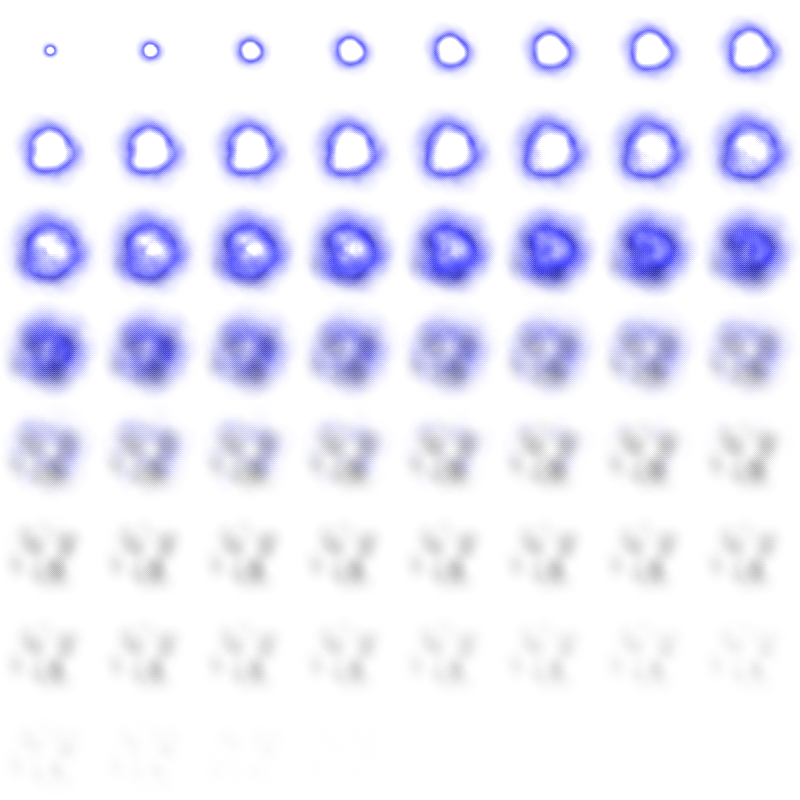
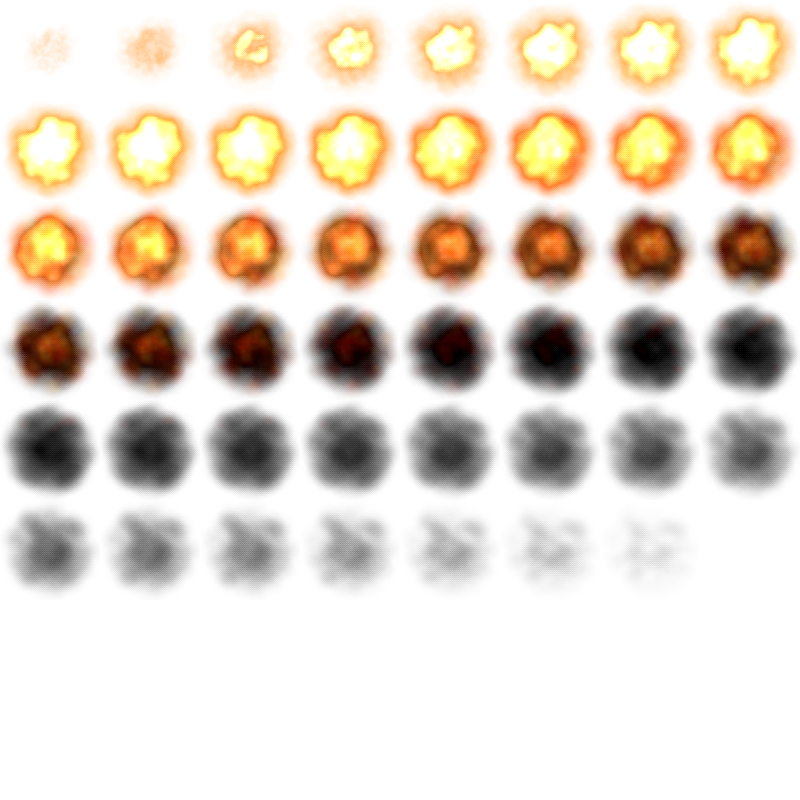
update

diff --git a/src/Effect.js b/src/Effect.js
@@ -9,7 +9,7 @@ gls2.Effect.setup = function() {
 
     gls2.effectSprite = {};
 
-    gls2.Effect["explosion"] = Array.range(0, 2).map(function(i) {
+    gls2.Effect["explosion"] = Array.range(0, 3).map(function(i) {
         return tm.display.AnimationSprite(tm.asset.SpriteSheet({
             image: "explode" + i,
             frame: {
@@ -26,7 +26,7 @@ gls2.Effect.setup = function() {
     });
 
     gls2.effectSprite["explodeL"] = tm.display.AnimationSprite(tm.asset.SpriteSheet({
-        image: "explodeL",
+        image: "explode0",
         frame: {
             width: 100,
             height: 100,
@@ -82,7 +82,9 @@ gls2.Effect.setup = function() {
 };
 
 gls2.Effect.genParticle = function(x, y, scene) {
-    var p = gls2.Effect["particle16"].clone().setPosition(x, y).addChildTo(scene);
+    var p = gls2.Effect["particle16"].clone().setPosition(x, y);
+    p.isEffect = true;
+    p.addChildTo(scene);
     var speed = gls2.math.randf(5, 20);
     var dir = gls2.math.randf(Math.PI,Math.PI*2);
     p.dx = Math.cos(dir) * speed;
@@ -98,19 +100,21 @@ gls2.Effect.genParticle = function(x, y, scene) {
     });
 };
 
-gls2.Effect.genShockwave = function(x, y, scene) {
+gls2.Effect.genShockwave = function(x, y, scene, scaleTo) {
+    scaleTo = scaleTo || 1.8;
     var scale = 0.1;
     var sw = tm.display.Sprite()
         .setPosition(x, y)
         .setScale(scale)
-        .setBlendMode("lighter")
-        .addChildTo(scene);
+        .setBlendMode("lighter");
+    sw.isEffect = true;
+    sw.addChildTo(scene);
     sw.image = gls2.Effect["shockwaveImage"];
     sw.tweener
         .clear()
         .to({
-            scaleX: 1.4,
-            scaleY: 1.4,
+            scaleX: scaleTo,
+            scaleY: scaleTo,
             alpha: 0.0
         }, 800, "easeOutQuad")
         .call(function() {
@@ -166,6 +170,7 @@ gls2.Effect.explodeS = function(x, y, scene, vector) {
         });
     }
     e.addChildTo(scene);
+    gls2.Effect.genShockwave(x, y, scene);
 };
 
 gls2.Effect.explodeGS = function(x, y, scene) {
@@ -201,7 +206,6 @@ gls2.Effect.explodeGS = function(x, y, scene) {
         .setScale(0.5)
         .setPosition(x+12, y)
         .setRotation(Math.random() * 360)
-        .setBlendMode("lighter")
         .gotoAndPlay();
     e.isEffect = true;
     e.addChildTo(scene);
@@ -221,7 +225,6 @@ gls2.Effect.explodeGS = function(x, y, scene) {
         .setScale(0.5)
         .setPosition(x-12, y)
         .setRotation(Math.random() * 360)
-        .setBlendMode("lighter")
         .gotoAndPlay();
     e.isEffect = true;
     e.addChildTo(scene);
@@ -245,7 +248,6 @@ gls2.Effect.explodeM = function(x, y, scene) {
                 this.scaleY += 0.01;
             })
             .setScale(0.7)
-            .setBlendMode(i%2===0?"lighter":"source-over")
             .setPosition(x, y)
             .gotoAndPlay();
         e.a = Math.PI*2 * Math.random();
@@ -254,6 +256,7 @@ gls2.Effect.explodeM = function(x, y, scene) {
         e.isEffect = true;
         e.addChildTo(scene);
     }
+    gls2.Effect.genShockwave(x, y, scene, 5.0);
 };
 
 gls2.Effect.explodeL = function(x, y, scene) {
@@ -281,7 +284,6 @@ gls2.Effect.explodeL = function(x, y, scene) {
                     this.age += 1;
                 })
                 .setScale(0.3 * (3-j))
-                .setBlendMode("lighter")
                 .setPosition(x, y)
                 .gotoAndPlay();
             e.rotation = Math.random() * Math.PI*2;

diff --git a/src/enemy/EnemyHard.js b/src/enemy/EnemyHard.js
@@ -206,7 +206,7 @@ gls2.Enemy.FighterM = tm.createClass(
     init: function(gameScene, software) {
         this.superInit(gameScene, software, "kurokawa");
 
-        this._sprite = _Sprite("tex_stage1", 64*2, 64*2).setFrameIndex(1);
+        this._sprite = _Sprite("tex_stage1", 64*2, 64*2).setFrameIndex(1); // TODO 専用グラ
     },
     ondying: function() {
         this.on("enterframe", function(e) {
@@ -261,6 +261,34 @@ gls2.Enemy.Komachi = tm.createClass(
 /**
  * 大型戦闘機「アオノ」
  */
+gls2.Enemy.Mktn = tm.createClass(
+/** @lends */
+{
+    superClass: gls2.Enemy,
+
+    _sprite: null,
+
+    init: function(gameScene, software) {
+        this.superInit(gameScene, software, "aono");
+
+        this._sprite = _Sprite("tex_stage1", 64*4, 64*2).setFrameIndex(1);
+    },
+    ondying: function() {
+        this.on("enterframe", function(e) {
+            if (e.app.frame % 30 === 0) {
+                this._sprite.toRed();
+            } else if (e.app.frame % 30 === 5) {
+                this._sprite.toNormal();
+            }
+        });
+    },
+    draw: function(canvas) {
+        this._sprite.draw(canvas);
+    },
+    destroy: function() {
+        this.fallDown();
+    },
+});
 
 /**
  * 固定砲台「キセ」

diff --git a/src/enemy/Danmaku.js b/src/enemy/Danmaku.js
@@ -391,6 +391,31 @@ gls2.Danmaku["kurokawa-1"] = new bulletml.Root({
 });
 
 /**
+ * エレン4面
+ */
+gls2.Danmaku["kurokawa-4"] = new bulletml.Root({
+    "top0": $.action([
+        $.repeat(999, [
+            $whip($spd3, -0.01, 4, function(spd) {
+                return $nway(4, -45, 45, spd, BNL, $.offsetX(-45), $.autonomy(true));
+            }),
+            $whip($spd3, -0.01, 4, function(spd) {
+                return $nway(4, -45, 45, spd, BNL, $.offsetX(+45), $.autonomy(true));
+            }),
+            $interval(90),
+        ]),
+    ]),
+    "top1": $.action([
+        $.repeat(999, [
+            $.fire($.direction(0), $spd3, RL, $.offsetX(-45), $.autonomy(true)),
+            $interval(45),
+            $.fire($.direction(0), $spd3, RL, $.offsetX(+45), $.autonomy(true)),
+            $interval(45),
+        ]),
+    ]),
+});
+
+/**
  * こまち1面
  */
 gls2.Danmaku["komachi-1"] = new bulletml.Root({

diff --git a/src/enemy/EnemyUnit.js b/src/enemy/EnemyUnit.js
@@ -284,6 +284,9 @@ gls2.EnemyUnit = {
 "fighter-m-5": [{ hard:$e.FighterM, soft:$s.MiddleFighter1, x:SC_W*0.7, y:SC_H*-0.3 }],
 "fighter-m-6": [{ hard:$e.FighterM, soft:$s.MiddleFighter1, x:SC_W*0.8, y:SC_H*-0.3 }],
 
+// 中型戦闘機「クロカワ」4面用
+"fighter-m4-0": [{ hard:$e.FighterM, soft:$s.MiddleFighter4, x:SC_W*0.2, y:SC_H*-0.3 }],
+
 // 小型戦闘機「ツキカゲ」4面用右から
 "tsukikage-r": [
     { hard:$e.FighterS, soft:$s.Tsukikage4r(700), x:SC_W*1.3, y:SC_H*0.4 },
@@ -317,6 +320,7 @@ gls2.EnemyUnit = {
 // 中型戦闘機「アキモト」4面用
 "komachi4-0": [{ hard:$e.Komachi, soft:$s.LargeFighter4, x:SC_W*0.3, y:SC_H*-0.3 }],
 "komachi4-1": [{ hard:$e.Komachi, soft:$s.LargeFighter4, x:SC_W*0.7, y:SC_H*-0.3 }],
+
 
 // ボムキャリアー「クルミ」
 "erika": [{ hard:$e.Erika, soft:$s.Erika, x: SC_W*0.5, y:-100 }],

diff --git a/assets/raw/raw_exp.html b/assets/raw/raw_exp.html
@@ -1,0 +1,29 @@
+<html>
+<head>
+</head>
+<body style="background:black">
+<canvas id="c"></canvas>
+<script src="../../libs/tmlib.js"></script>
+<script>
+tm.main(function() {
+
+    var RAD = 64;
+
+    var c = new tm.graphics.Canvas("#c");
+    c.resize(RAD*2, RAD*2)
+        .setFillStyle(new tm.graphics.RadialGradient(RAD, RAD, 0, RAD, RAD, RAD)
+            .addColorStopList([
+                { offset: 0.0, color: "rgba(255, 255, 255, 0.0)" },
+                { offset: 0.6, color: "rgba(255, 255, 255, 0.0)" },
+                { offset: 0.9, color: "rgba(255, 255, 255, 1.0)" },
+                { offset: 1.0, color: "rgba(255, 255, 255, 0.0)" },
+            ])
+            .toStyle()
+        )
+        .fillRect(0, 0, RAD*2, RAD*2);
+
+    c.saveAsImage();
+});
+</script>
+</body>
+</html>

diff --git a/src/GlShooter2.js b/src/GlShooter2.js
@@ -63,7 +63,7 @@ gls2.GlShooter2 = tm.createClass(
             "aura": "assets/aura.png",
             "explode0": "assets/explode0.png",
             "explode1": "assets/explode1.png",
-            "explodeL": "assets/explode2.png",
+            "explode2": "assets/explode2.png",
             "shotbullet": "assets/shotbullet.png",
             "bomb": "assets/bomb.png",
             "bombIcon": "assets/bomb_icon.png",

diff --git a/src/enemy/EnemySoft.js b/src/enemy/EnemySoft.js
@@ -494,6 +494,7 @@ var _MiddleFighterCommon = tm.createClass(
     },
 })
 gls2.EnemySoft.MiddleFighter1 = _MiddleFighterCommon(0.5, "kurokawa-1");
+gls2.EnemySoft.MiddleFighter4 = _MiddleFighterCommon(0.5, "kurokawa-4");
 
 /**
  * ゆりさん4面右から
